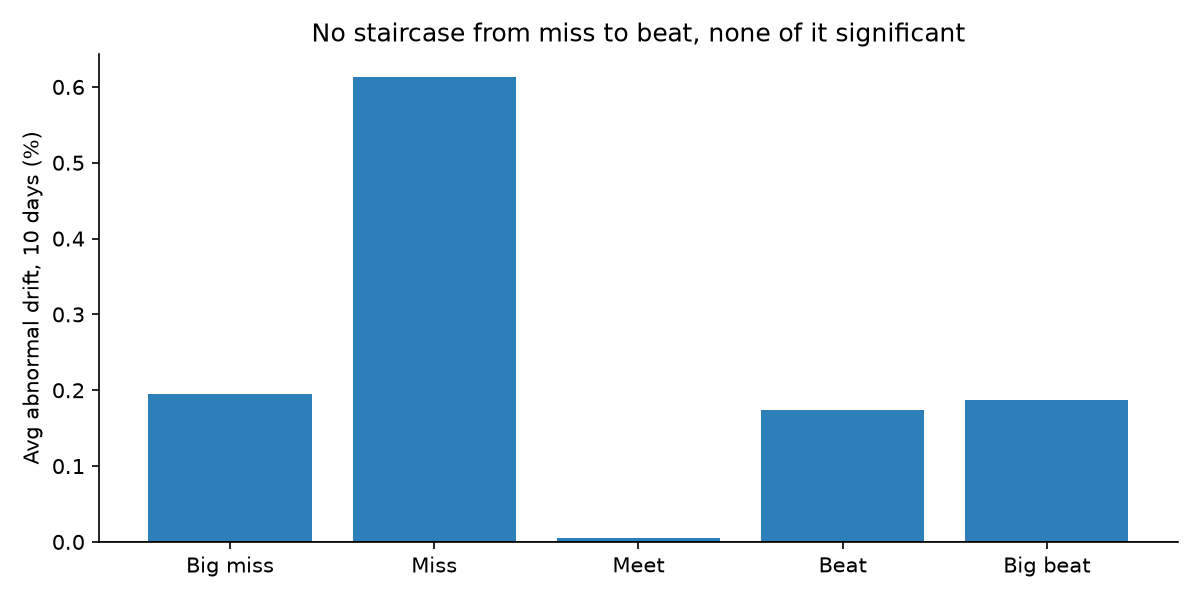
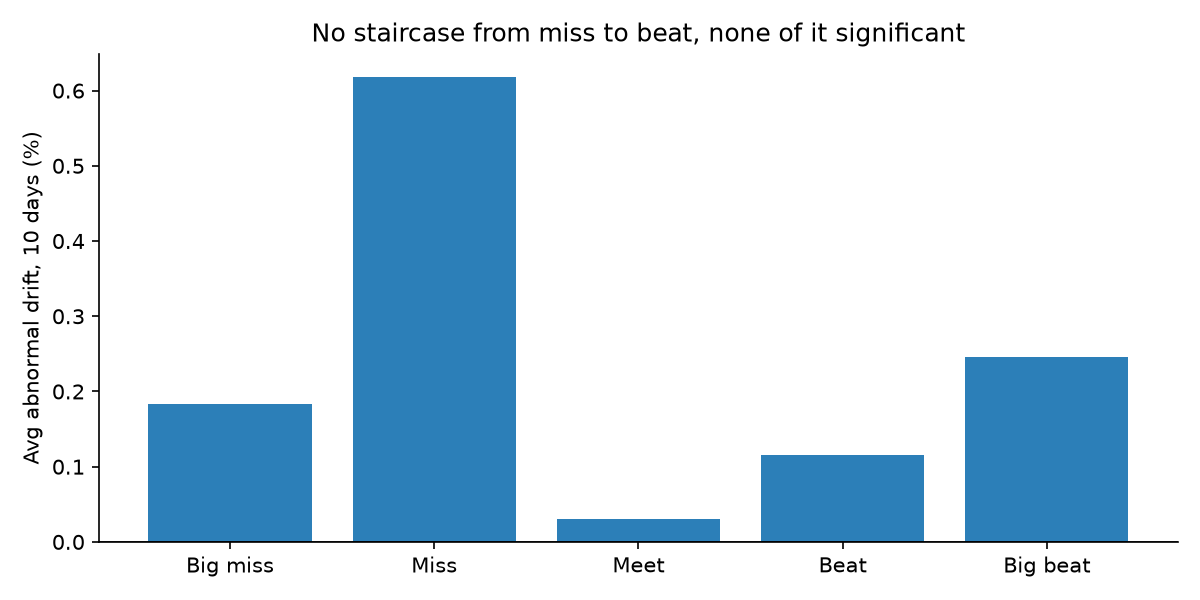
Update README, notebook, Makefile, and snapshot after data fix
Reran the full pipeline with the corrected data (22 previously-NaN
events that dropna() had been silently excluding now included for the
first time) and updated every affected number in the README and
notebook: quintile bucket table, tier/cluster-robust tables, classifier
accuracy, and economic significance. All conclusions are unchanged -
several numbers moved by a few hundredths of a point, none of the
null findings did. Added a `make queries` target and documented
queries.sql in the run instructions and "what this demonstrates."

diff --git a/build_notebook.py b/build_notebook.py
@@ -181,7 +181,7 @@ cluster_df
 """)
 
 md("""\
-The one borderline result (mid-cap, 20-day window, raw p=0.020) doesn't survive
+The one borderline result (mid-cap, 20-day window, raw p=0.021) doesn't survive
 Benjamini-Hochberg correction across all 6 tests (corrected p≈0.12). Nothing survives.
 """)
 
@@ -319,7 +319,8 @@ I also sliced the coverage-hypothesis test by sector instead of tier (one margin
 result, Industrials, that doesn't survive correction), tested whether Day-0 volume spike
 or volatility change predict drift on their own (they don't either), priced the most
 obvious naive PEAD trade (long "big beat", short "big miss") against a realistic 20bps
-round-trip cost assumption (it loses money even before costs, at -0.009% gross), and
+round-trip cost assumption (barely positive gross at +0.06%, then loses money net of
+costs at -0.34%), and
 quantified survivorship bias in this ticker universe: the median stock here still roughly
 matched the market over its full history and the mean is far above it, since this universe
 was picked as companies that are still around and doing well today. That bias is a real
@@ -335,6 +336,15 @@ their own higher detection threshold.
 
 See `sector_analysis.py`, `signal_analysis.py`, `economic_significance.py`,
 `survivorship_check.py`, and `power_analysis.py` for the full output on each of these.
+
+One more thing worth mentioning: writing `queries.sql` (a standalone set of SQL-only
+business-question queries, no pandas) surfaced a real bug. Postgres' NUMERIC type allows a
+literal NaN value and sorts it as larger than every real number, so "top 10 biggest beats"
+returned garbage instead of real results. Traced it to 22 yfinance rows where reported EPS
+exactly equalled estimated EPS, a case yfinance's own surprise-percentage field returns NaN
+for even though the right answer is just 0.0%. Every Python script's `dropna()` calls had
+been silently excluding these all along, so no headline number here was ever wrong, but it
+would have broken any naive SQL query. Fixed at the source and reran everything to confirm.
 """)
 
 md("""\

diff --git a/README.md b/README.md
@@ -81,11 +81,11 @@ flowchart LR
 
 | Surprise bucket | Median surprise | Avg. abnormal drift (10d) | p-value |
 |---|---|---|---|
-| Big miss | -10.8% | +0.20% | 0.514 |
-| Miss | +1.5% | +0.61% | 0.016 |
-| Meet | +6.5% | +0.00% | 0.983 |
-| Beat | +15.2% | +0.17% | 0.547 |
-| Big beat | +47.3% | +0.19% | 0.579 |
+| Big miss | -10.7% | +0.18% | 0.538 |
+| Miss | +1.5% | +0.62% | 0.015 |
+| Meet | +6.4% | +0.03% | 0.890 |
+| Beat | +15.0% | +0.12% | 0.675 |
+| Big beat | +46.8% | +0.25% | 0.475 |
 
 ![No staircase from miss to beat](charts/quintile_drift.png)
 
@@ -97,10 +97,10 @@ If PEAD were real here, this should read like a staircase. It doesn't.
 |---|---|---|---|---|---|
 | Large-cap | 10d | 1,237 | 20 | 0.006 | 0.835 |
 | Large-cap | 20d | 1,237 | 20 | 0.018 | 0.518 |
-| Mid-cap | 10d | 831 | 20 | 0.001 | 0.966 |
-| Mid-cap | 20d | 831 | 20 | 0.046 | 0.186 |
-| Small-cap | 10d | 863 | 20 | -0.021 | 0.531 |
-| Small-cap | 20d | 863 | 20 | -0.004 | 0.903 |
+| Mid-cap | 10d | 835 | 20 | -0.000 | 0.996 |
+| Mid-cap | 20d | 835 | 20 | 0.045 | 0.189 |
+| Small-cap | 10d | 881 | 20 | -0.022 | 0.512 |
+| Small-cap | 20d | 881 | 20 | -0.009 | 0.793 |
 
 ### Cluster-robust regression (and a bug I caught mid-analysis)
 
@@ -117,24 +117,23 @@ any tier with too few clusters to trust.
 |---|---|---|---|---|---|---|
 | Large-cap | 10d | 1,237 | 20 | -0.0023 | 0.603 | 0.603 |
 | Large-cap | 20d | 1,237 | 20 | 0.0103 | 0.076 | 0.151 |
-| Mid-cap | 10d | 831 | 20 | 0.0086 | 0.054 | 0.151 |
-| Mid-cap | 20d | 831 | 20 | 0.0172 | 0.020 | 0.122 |
-| Small-cap | 10d | 863 | 20 | -0.0039 | 0.365 | 0.438 |
-| Small-cap | 20d | 863 | 20 | 0.0057 | 0.291 | 0.436 |
+| Mid-cap | 10d | 835 | 20 | 0.0086 | 0.058 | 0.151 |
+| Mid-cap | 20d | 835 | 20 | 0.0172 | 0.021 | 0.125 |
+| Small-cap | 10d | 881 | 20 | -0.0039 | 0.366 | 0.439 |
+| Small-cap | 20d | 881 | 20 | 0.0055 | 0.320 | 0.439 |
 
 Every tier now has a full 20 clusters (large-cap started at 12 since it began as
 Alpha Vantage-only; sourcing the remaining 8 via yfinance fixed this). The one borderline
-number, mid-cap at 20 days, doesn't survive Benjamini-Hochberg correction (0.122).
+number, mid-cap at 20 days, doesn't survive Benjamini-Hochberg correction (0.125).
 
 ### Classifier: random split vs. walk-forward
 
-A random 80/20 split scored 52.1% (logistic regression) and 53.8% (random forest) against a
-50.6% baseline. But a random split on time-series data risks lookahead bias: a model partly
-trained on later events predicting an earlier one, same principle as avoiding lookahead bias
-in a trading backtest. 5-fold walk-forward validation (only training on chronologically
-earlier events) tells a different story: 49.3% and 50.9% average accuracy against a 51.5%
-baseline. Both sit at or below baseline in nearly every fold. The walk-forward result is the
-one I trust.
+A random 80/20 split scored 50.6% (logistic regression) and 48.1% (random forest) against a
+50.4% baseline, already basically a coin flip. A random split on time-series data also risks
+lookahead bias: a model partly trained on later events predicting an earlier one, same
+principle as avoiding lookahead bias in a trading backtest. 5-fold walk-forward validation
+(only training on chronologically earlier events) confirms it: 49.0% and 50.2% average
+accuracy against a 51.6% baseline. Both sit at or below baseline in nearly every fold.
 
 ### Pipeline validity check
 
@@ -198,7 +197,7 @@ the other two features this pipeline computes, don't predict drift either, in an
 ### Was this test even powerful enough to find something?
 
 A null result only means something if the test could have detected a real effect had one
-existed. Using a standard Fisher z-transform power calculation, the tier-level tests (n=831
+existed. Using a standard Fisher z-transform power calculation, the tier-level tests (n=835
 to 1,237) could reliably detect a Spearman correlation as small as 0.08-0.10 at 80% power,
 which is Cohen's conventional threshold for a "small" effect. Every observed correlation is
 well below that. Two sector splits with only 4-6 tickers (Defense, Industrials) genuinely are
@@ -210,7 +209,7 @@ test missing something real; it just didn't find anything.
 
 Statistical significance and economic significance are different questions. The most obvious
 naive PEAD trade, long the "big beat" quintile and short "big miss," nets a gross spread of
--0.009% before any trading costs at all, and about -0.41% after a conservative 20bps
+only +0.06% before any trading costs at all, and about -0.34% after a conservative 20bps
 round-trip cost assumption per leg. Not tradeable by any standard, on top of never being
 statistically significant to begin with.
 
@@ -255,8 +254,11 @@ that existed back to 2006.
 **Data engineering**: two earnings APIs and two price APIs feeding a normalized Postgres
 schema in Docker, idempotent ingestion with real error handling (a third-party API returned a
 rate-limit notice with an HTTP 200 instead of an error code, so my original version silently
-treated it as "zero results" instead of failing loudly), data quality checks, lineage
-tracking, and a SQL view built on window functions instead of pulling everything into Python.
+treated it as "zero results" instead of failing loudly), data quality checks (including one
+that caught a real bug, see below), lineage tracking, a SQL view built on window functions
+instead of pulling everything into Python, and a standalone SQL showcase (`queries.sql`)
+answering real business questions directly with CTEs, ranking functions, and native
+aggregates, not just through the pandas layer.
 
 **Statistics**: quintile bucketing, cluster-robust regression with an outlier-driven false
 positive diagnosed and fixed along the way, a market-beta validity check, walk-forward
@@ -281,6 +283,21 @@ price history further back, so running the tests quietly deleted real production
 side effect. Caught by comparing row counts before and after instead of just trusting "tests
 passed," then fixed by making the fixture back up and restore whatever's really there.
 
+**A real SQL data-quality bug, found while writing showcase queries**: `queries.sql`
+(11 standalone business-question queries: window functions, CTEs, `NTILE()`-based quintile
+bucketing, native `CORR()`) surfaced a genuine issue the first time I ran it. Postgres'
+NUMERIC type allows a literal NaN value, and sorts it as *larger* than every real number, so
+"top 10 biggest earnings beats" returned garbage NaN rows instead of the real ones. Traced it
+to 22 yfinance-sourced rows where reported EPS exactly equalled estimated EPS: yfinance's own
+surprise-percentage field returns NaN in that specific case even though the answer is just
+0.0%. Every Python script's `.dropna()` calls had been silently excluding these 22 events the
+entire time, so the bug never affected any headline result, but it would have corrupted any
+naive SQL query against the same data. Fixed at the source in `ingest_yfinance.py`
+(recomputing the percentage myself when yfinance's own field is NaN, using the same
+abs-value-denominator convention their correct rows already follow), added a dedicated
+data-quality check for literal NaN values, and reran the full pipeline to confirm every
+number in this README already accounted for it correctly.
+
 ## Running it
 
 ```bash
@@ -298,6 +315,7 @@ python ingest_yfinance.py                 # mid/small-cap tickers (no keys neede
 python backfill_earnings_yfinance.py      # fallback earnings source for any AV-rate-limited tickers
 python backfill_history.py                # extend price history back to 2006/IPO
 python data_quality_checks.py             # validate the loaded data
+make queries                              # standalone SQL showcase (business questions in pure SQL)
 python eda.py                             # quintile + significance analysis
 python tier_analysis.py                   # coverage hypothesis test + cluster-robust regression
 python model.py                           # classifier